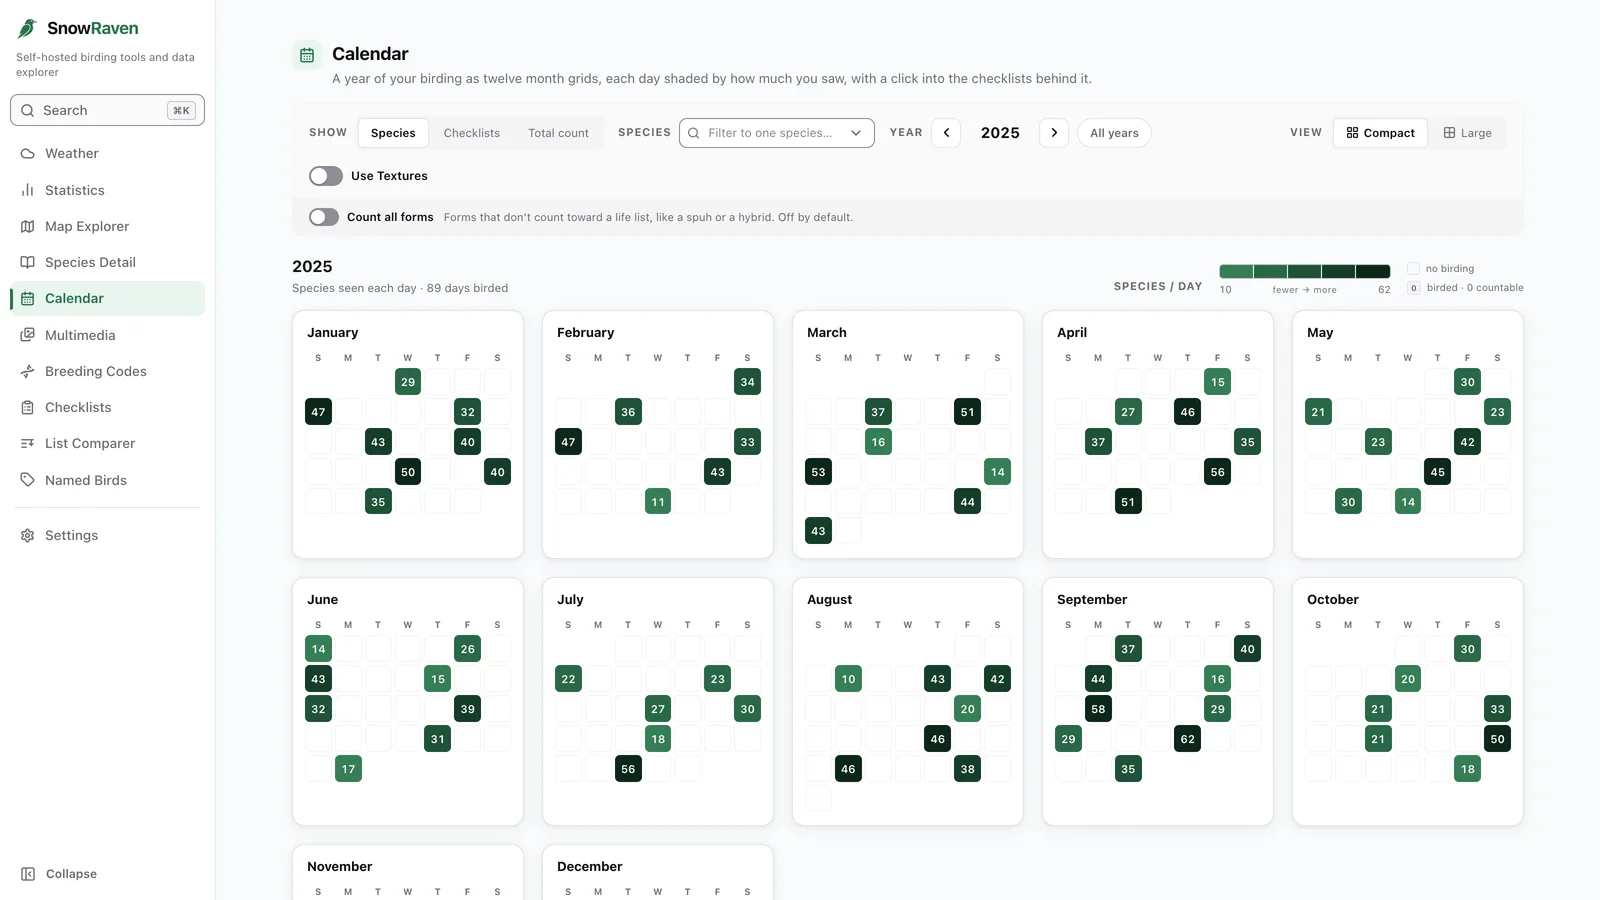
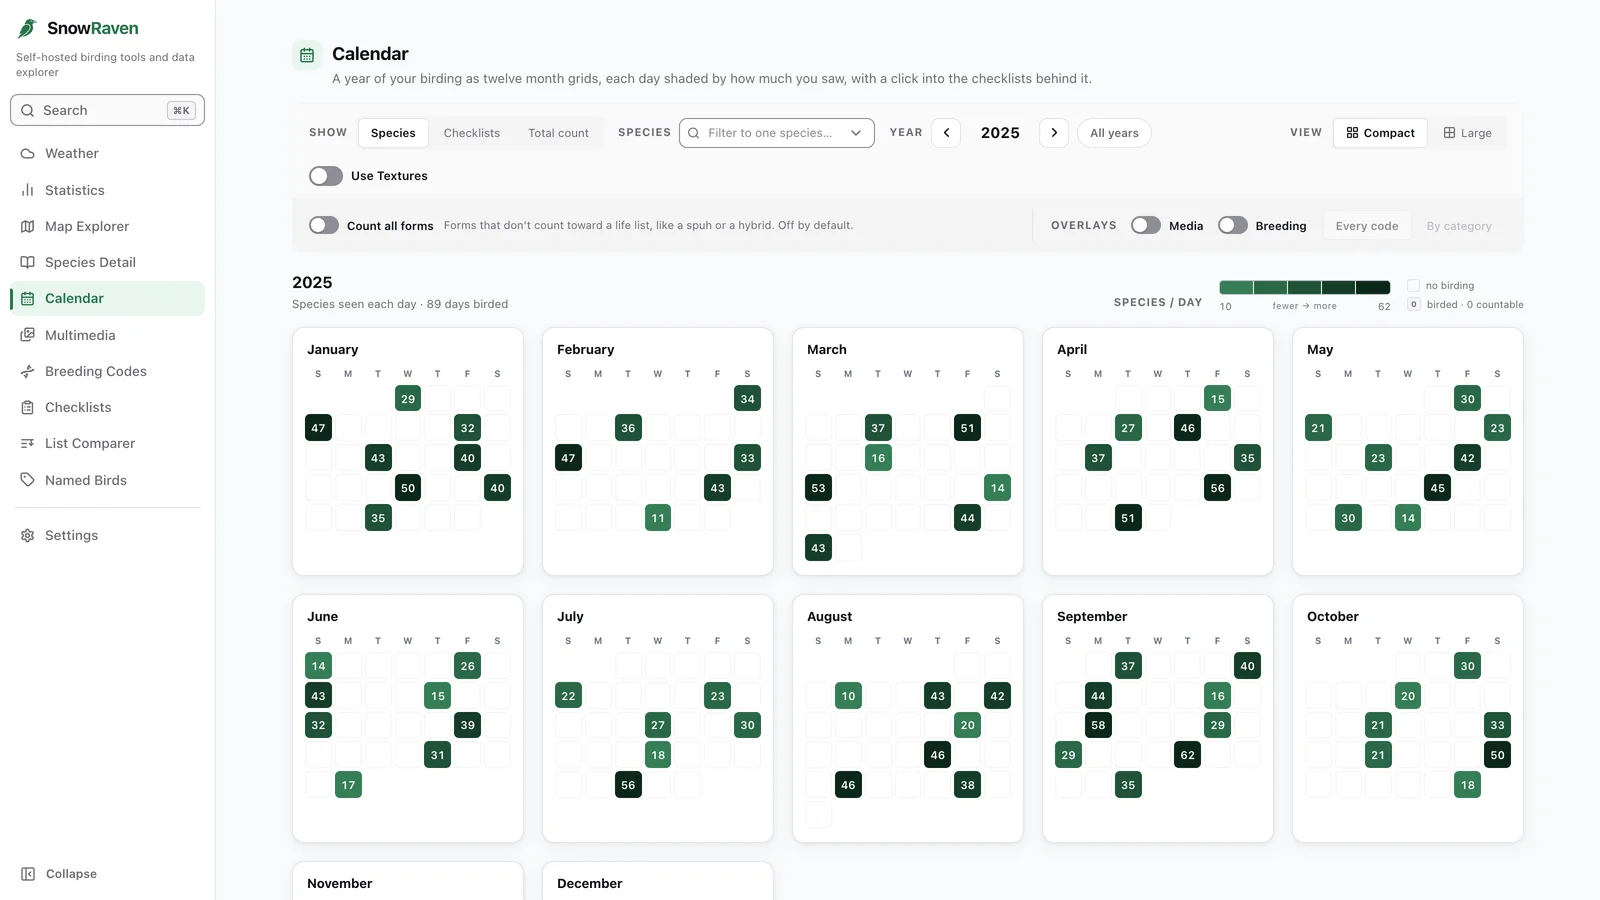
docs(website): recapture Calendar screenshot with the Overlays row
Recaptured from the synthetic demo data with the Calendar's new
Overlays row (Media and Breeding off), processed as process-img.mjs
does (1600 wide, WebP quality 84); approved by the user after a
before-and-after review. Nothing else under website/ changes.

diff --git a/pipeline/calendar-overlays/decisions.md b/pipeline/calendar-overlays/decisions.md
@@ -670,6 +670,9 @@ was recaptured before submission:
 
 The website's `calendar.webp` has the same property. A recapture was made to
 the scratchpad only, pending the user's approval under the website rule.
+The user approved it after a before-and-after review over the tailnet, and it
+replaced `website/assets/shots/calendar.webp` with nothing else under
+`website/` changed.
 
 **Submission.** Review submission `451305aa-56c8-49e0-9b19-9924ccbbed8b`,
 `WAITING_FOR_REVIEW`; the record reads `WAITING_FOR_REVIEW`.
